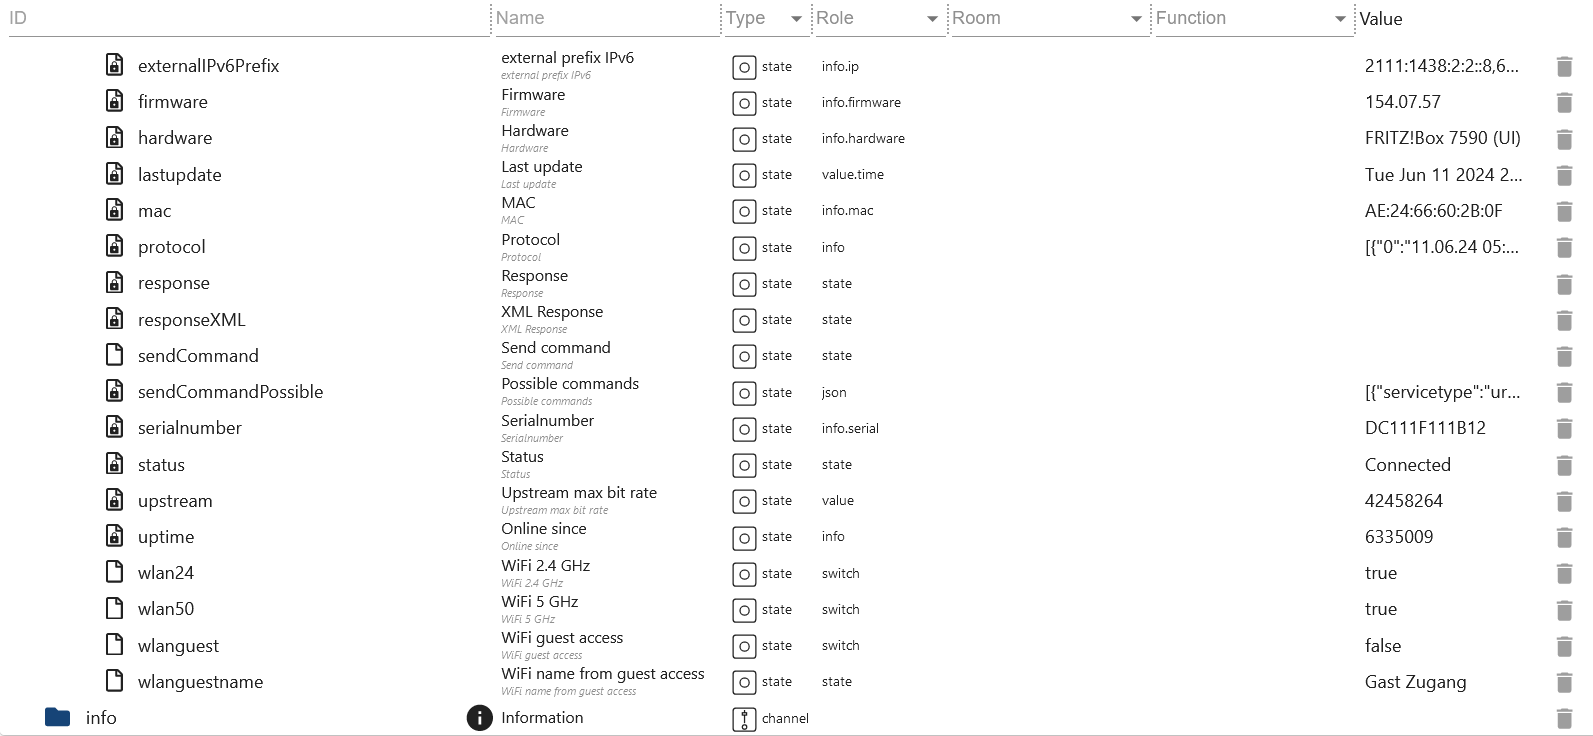
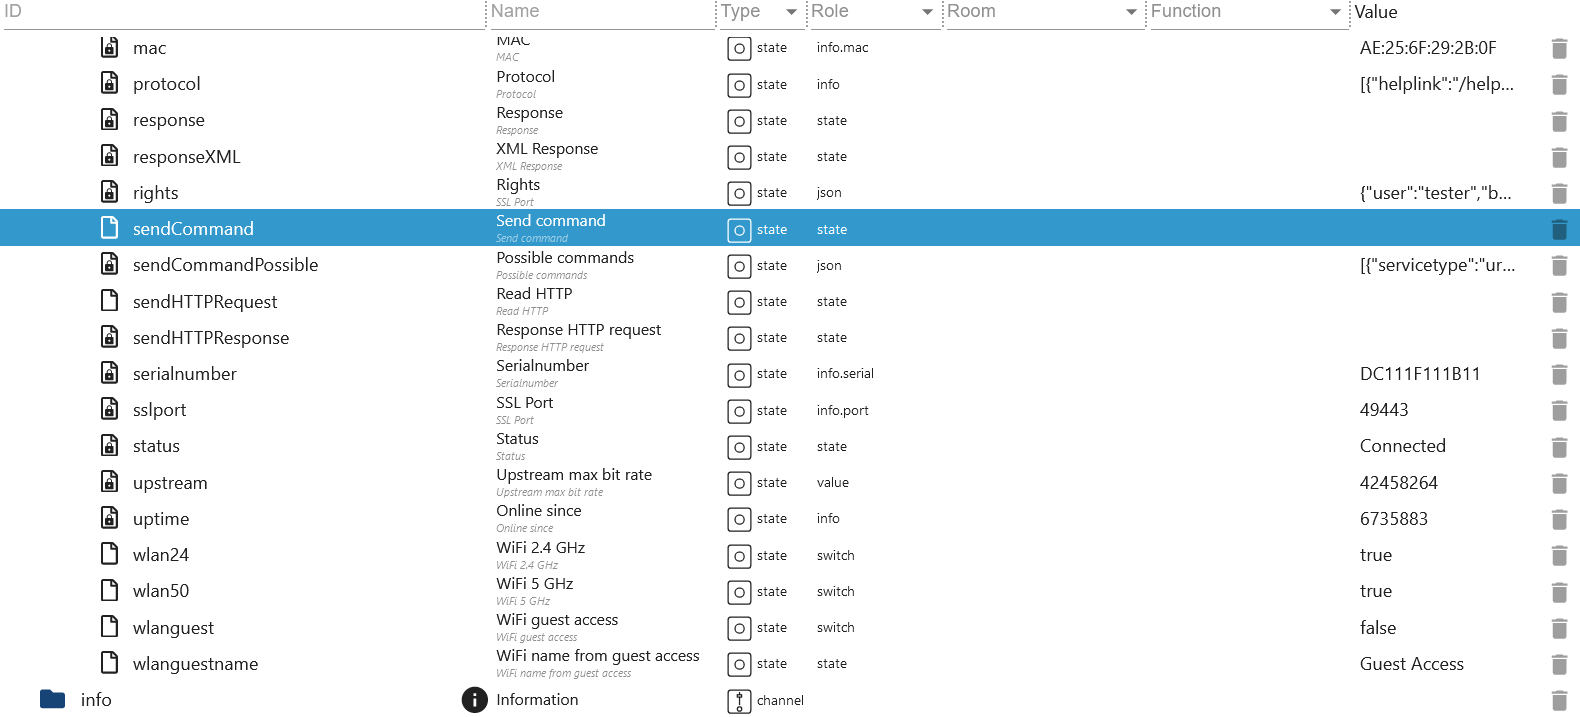
update description callmonitor & States

diff --git a/docs/de/README.md b/docs/de/README.md
@@ -631,35 +631,40 @@
     -   `Callmonitor.connect.sip` SIP
     -   `Callmonitor.connect.timestamp` Zeitstempel
     -   `Callmonitor.connect.type` Type
+-   `Callmonitor.action` Aktion
+-   `Callmonitor.action_id` Aktion ID vom JSON
 -   `Callmonitor.calldata` JSON letzte Aktion
 -   `Callmonitor.status` Status der Überwachung
 
 ```JSON
 {
-  "lastrawdata": "08.06.24 11:26:36;DISCONNECT;1;0;",
-  "rawdata": [
-    "08.06.24 11:26:29;CALL;1;10;8xxxxxx;01xxxxxxxxx;SIP0;",
-    "08.06.24 11:26:36;DISCONNECT;1;0;"
-  ],
-  "date": "2024-06-08T09:26:36.759Z",
-  "id": 1,
-  "timestamp": 1717838796759,
-  "kind": "HangUp",
-  "extension": 10,
-  "caller": "8xxxxxx",
-  "callername": "All (Phonebook Name)",
-  "called": "01xxxxxxxxx",
-  "calledname": "Handy (Phonebook Name)",
-  "pickup": "",
-  "sip": "SIP0",
-  "duration": 0,
-  "type": "CALL",
-  "prefix": "01xx",
-  "state": "Muster"
+  "0": { // Action ID
+    "lastrawdata": "15.06.24 13:10:43;DISCONNECT;0;0;",
+    "rawdata": [
+      "15.06.24 13:10:38;RING;0;01111111111;8111111;SIP0;",
+      "15.06.24 13:10:43;DISCONNECT;0;0;"
+    ],
+    "date": "2024-06-15T11:10:43.337Z",
+    "id": 0,
+    "timestamp": 1718449843337,
+    "kind": "HangUp",
+    "extension": 0,
+    "caller": "01111111111",
+    "callername": "Test Handy (Test)",
+    "called": "87930045",
+    "calledname": "Test)",
+    "pickup": "",
+    "sip": "SIP0",
+    "duration": 0,
+    "type": "RING",
+    "prefix": 0,
+    "state": ""
+  }
 }
 ```
 
-![tr-064_calllist.png](img/tr-064_callmonitor.png)
+![tr-064_calllist_1.png](img/tr-064_callmonitor_1.png)</br>
+![tr-064_calllist_2.png](img/tr-064_callmonitor_2.png)
 
 # Telefonbücher
 
@@ -752,6 +757,8 @@
 -   `States.responseXML` Antwort vom Befehl (States.sendCommand) als XML
 -   `States.sendCommand` Befehl senden (siehe unten)
 -   `States.sendCommandPossible` Alle Services als JSON
+-   `States.sendHTTPRequest` HTTP Seite auslesen
+-   `States.sendHTTPResponse` HTTP Inhalt (Kann ein JSON oder HTML sein)
 -   `States.serialnumber` Seriennummer
 -   `States.status` Status der Fritzbox
 -   `States.upstream` Upstream in Bits

diff --git a/docs/en/README.md b/docs/en/README.md
@@ -634,6 +634,8 @@
     -   `Callmonitor.connect.sip` SIP
     -   `Callmonitor.connect.timestamp` timestamp
     -   `Callmonitor.connect.type` Type
+-   `Callmonitor.action` Action
+-   `Callmonitor.action_id` Action ID from JSON
 -   `Callmonitor.calldata` JSON last action
 -   `Callmonitor.status` Status of the monitoring
 
@@ -662,7 +664,8 @@
 }
 ```
 
-![tr-064_callmonitor.png](img/tr-064_callmonitor.png)
+![tr-064_calllist_1.png](img/tr-064_callmonitor_1.png)</br>
+![tr-064_calllist_2.png](img/tr-064_callmonitor_2.png)
 
 # Phonebooks
 
@@ -755,6 +758,8 @@
 -   `States.responseXML` Response from command (States.sendCommand) as XML
 -   `States.sendCommand` send command (see below)
 -   `States.sendCommandPossible` All services as JSON
+-   `States.sendHTTPRequest` Read HTTP page
+-   `States.sendHTTPResponse` HTTP Content (Can be a JSON or HTML)
 -   `States.serialnumber` serial number
 -   `States.status` Status of the Fritzbox
 -   `States.upstream` Upstream in bits
